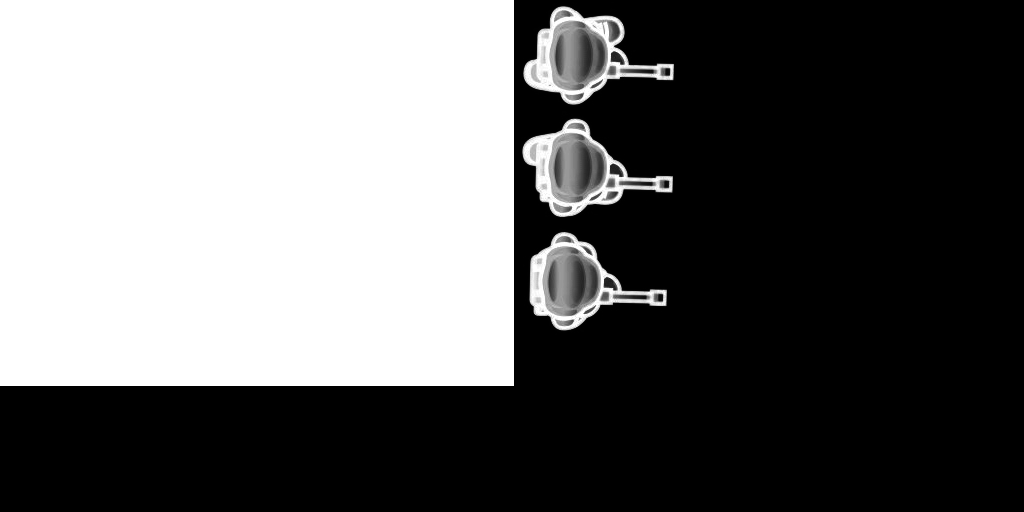
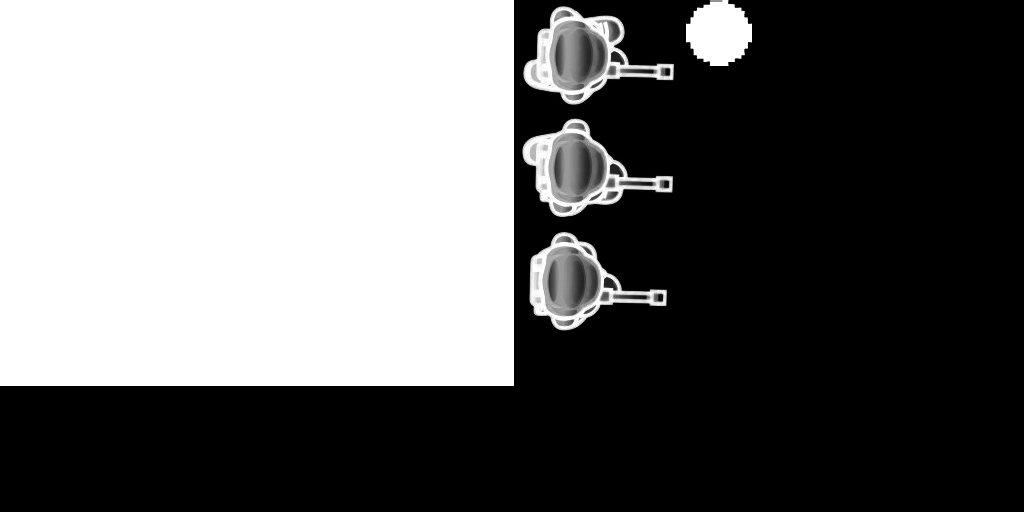
Add simple ball texture

Changed region(s): [[0.6562, 0.0, 0.75, 0.125]]

diff --git a/sources/PrototypeGame.cpp b/sources/PrototypeGame.cpp
@@ -50,6 +50,8 @@
 #include <cmath>
 #include <GL/glfw.h>
 
+#define ZOOM 2
+
 PrototypeGame::PrototypeGame(AssetAPI* ast) : Game() {
     asset = ast;
 
@@ -134,6 +136,7 @@ void PrototypeGame::init(const uint8_t*, int) {
     TRANSFORM(ball)->z = 0.1;
     ADD_COMPONENT(ball, Rendering);
     RENDERING(ball)->hide = false;
+    RENDERING(ball)->texture = theRenderingSystem.loadTextureFile("ballon1");
     ADD_COMPONENT(ball, Physics);
     PHYSICS(ball)->gravity = Vector2::Zero;
     PHYSICS(ball)->mass = 1;
@@ -141,7 +144,7 @@ void PrototypeGame::init(const uint8_t*, int) {
     // default camera
     camera = theEntityManager.CreateEntity("camera1");
     ADD_COMPONENT(camera, Transformation);
-    TRANSFORM(camera)->size = Vector2(theRenderingSystem.screenW * 3, theRenderingSystem.screenH * 3);
+    TRANSFORM(camera)->size = Vector2(theRenderingSystem.screenW * ZOOM, theRenderingSystem.screenH * ZOOM);
     TRANSFORM(camera)->position = Vector2(0, 0);
     // TRANSFORM(camera)->parent = ball;
     ADD_COMPONENT(camera, Camera);
